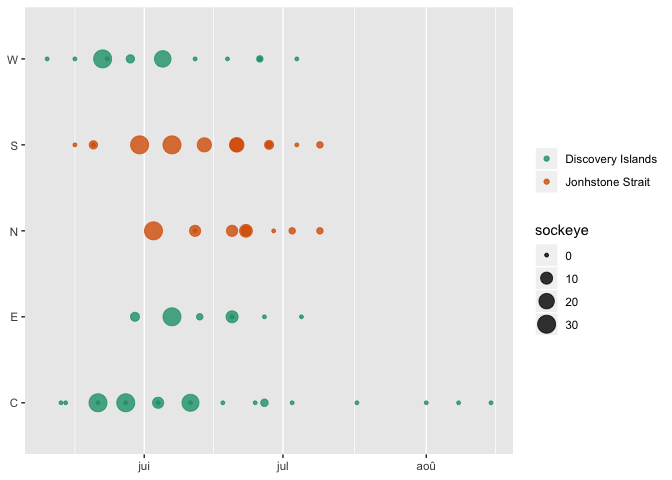
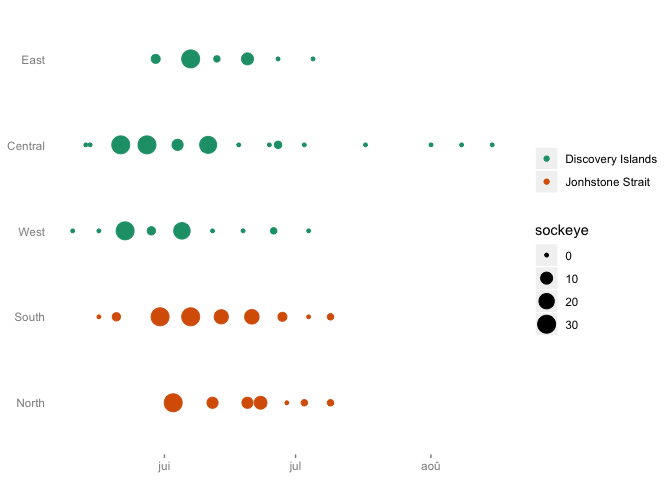
i dunno

diff --git a/Internal Reports/End of Field Season Reports/2018_End_of_Field_Season_Report.md b/Internal Reports/End of Field Season Reports/2018_End_of_Field_Season_Report.md
@@ -277,7 +277,7 @@ knitr::kable(species_summary)
 | chinook |      9|
 
 ``` r
-sockeye_distribution <-field_2018_sites_spp_summary %>% 
+sockeye_exemple <-field_2018_sites_spp_summary %>% 
   filter(species == "sockeye") %>% 
   arrange(region, zone, n) %>% 
   na.omit()
@@ -290,16 +290,20 @@ sockeye_distribution <- survey_seines_2018 %>%
   rename(sockeye = so_taken) %>% 
   na.omit()
 
-# TO FIX: need to group by region, not alphabetial order
-# need to change the months on X axis to english
+# TO FIX: need to change the months on X axis to english, 
+ 
+
 s_colors <- brewer.pal(n = 3, name = "Dark2")
-s <- ggplot(sockeye_distribution, aes(x = survey_date, y = zone, color = region)) + geom_count(aes( size = sockeye), alpha = 4 / 5) +
+s <- ggplot(sockeye_distribution, aes(x = survey_date, y = zone, color = region)) + geom_count(aes( size = sockeye)) +
   labs(x = NULL, y = NULL)+
   scale_color_manual(values = s_colors,
                      name = "",
                      breaks= c("DI", "JS"),
 labels=c("Discovery Islands", "Jonhstone Strait")) +
-  theme(panel.grid.minor.y = element_blank(), panel.grid.major.y = element_blank())
+  theme(panel.grid.minor = element_blank(), panel.grid.major = element_blank(), panel.background = element_blank(), axis.ticks.y = element_blank(), axis.text = element_text(color = "gray56"), axis.ticks.x = element_line(color = "gray56")) +
+  scale_y_discrete(limits= c("N", "S", "W","C", "E"),
+    breaks= c("W", "S", "N", "E", "C"),
+                   labels= c("West", "South", "North", "East", "Central"))
 s
 ```
 
